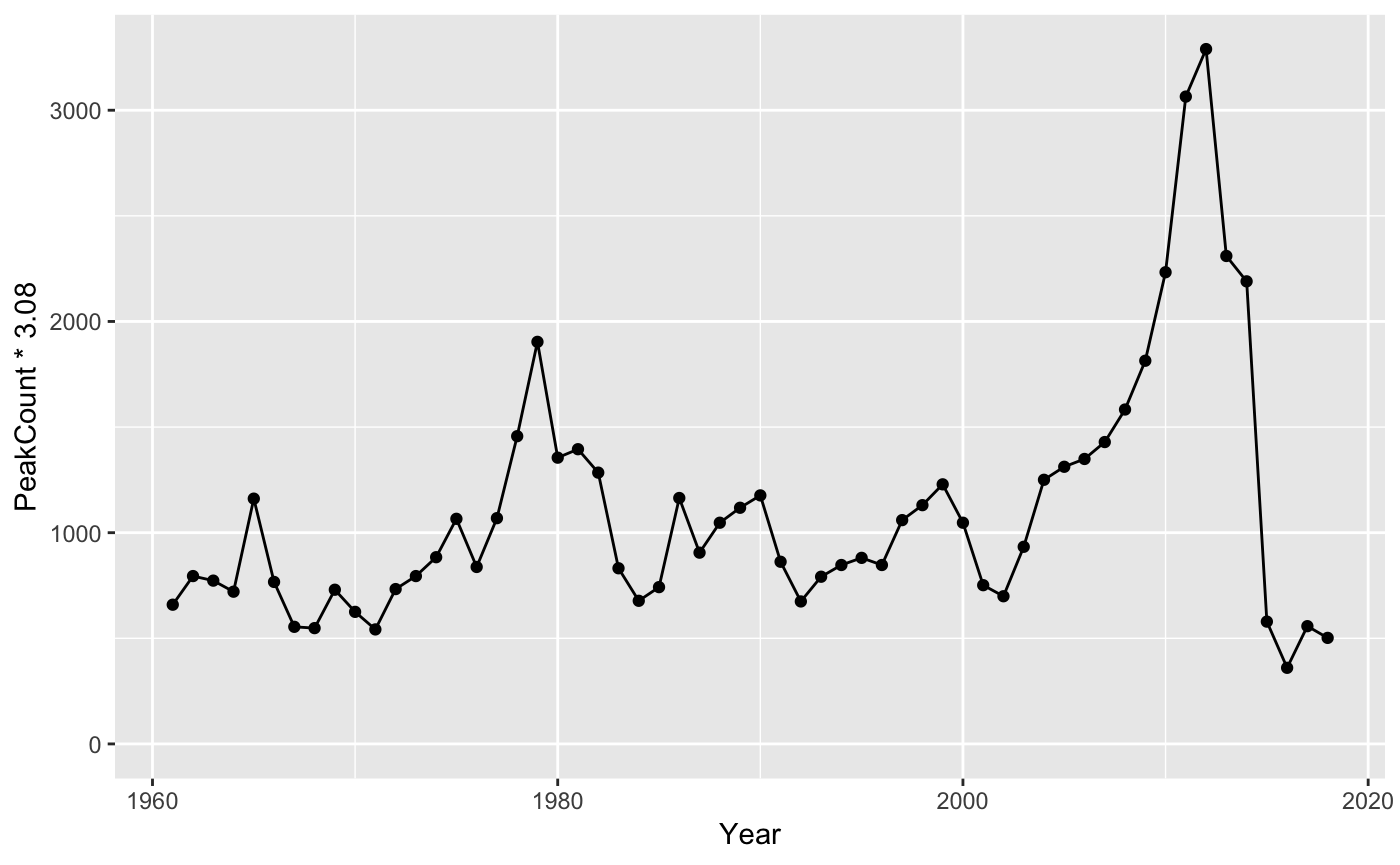
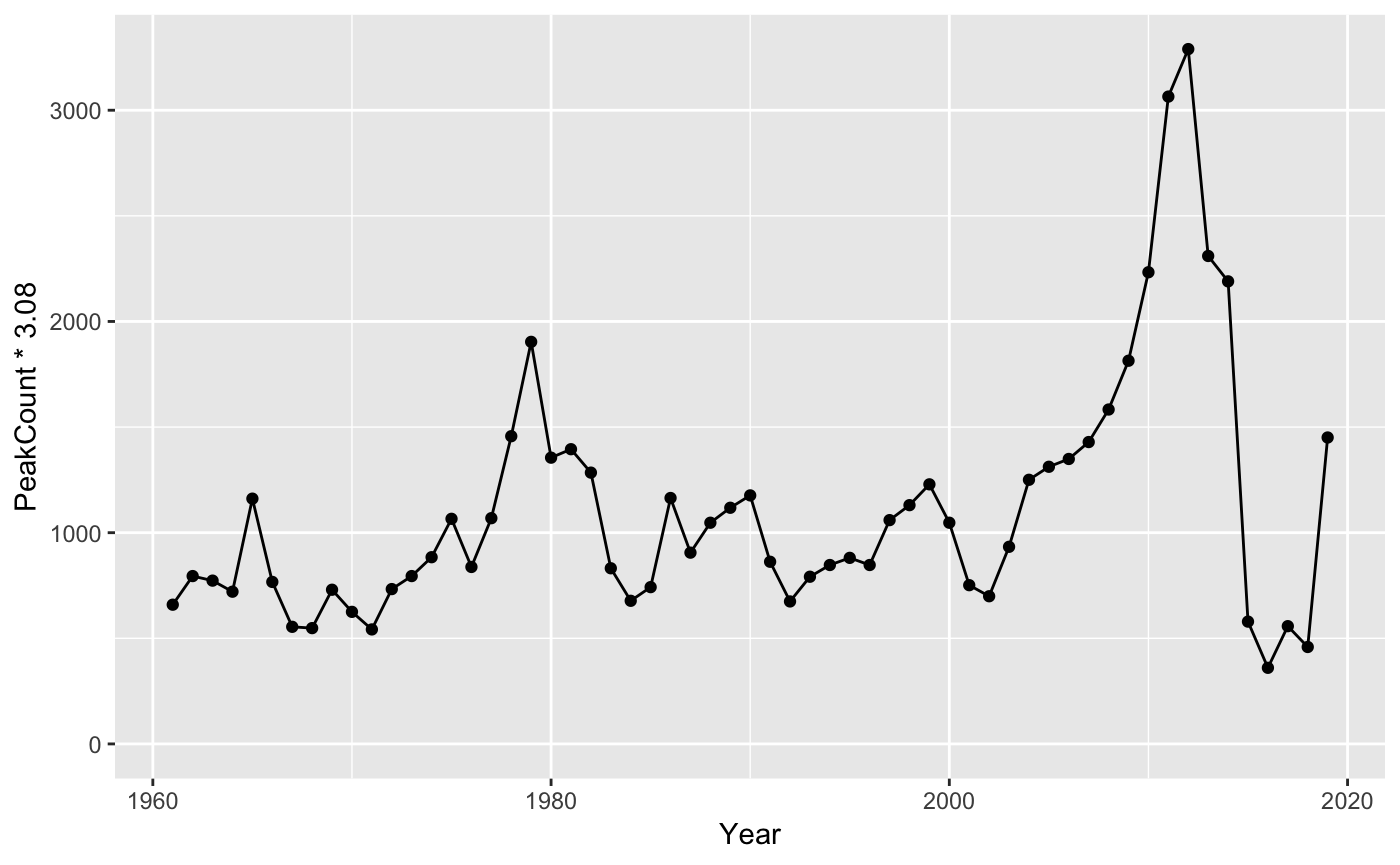
updated 2019

diff --git a/docs/index.html b/docs/index.html
@@ -30,7 +30,7 @@
       </button>
       <span class="navbar-brand">
         <a class="navbar-link" href="index.html">kootlake</a>
-        <span class="version label label-default" data-toggle="tooltip" data-placement="bottom" title="Released version">0.2.8</span>
+        <span class="version label label-default" data-toggle="tooltip" data-placement="bottom" title="Released version">0.2.8.9000</span>
       </span>
     </div>
 
@@ -114,11 +114,16 @@
 <h2 class="hasAnchor">
 <a href="#demonstration" class="anchor"></a>Demonstration</h2>
 <div class="sourceCode" id="cb2"><pre class="sourceCode r"><code class="sourceCode r"><a class="sourceLine" id="cb2-1" title="1"><span class="kw"><a href="https://www.rdocumentation.org/packages/base/topics/library">library</a></span>(ggplot2)</a>
-<a class="sourceLine" id="cb2-2" title="2"></a>
-<a class="sourceLine" id="cb2-3" title="3"><span class="kw"><a href="https://www.rdocumentation.org/packages/ggplot2/topics/ggplot">ggplot</a></span>(<span class="dt">data =</span> kootlake<span class="op">::</span>gerrard, <span class="kw"><a href="https://www.rdocumentation.org/packages/ggplot2/topics/aes">aes</a></span>(<span class="dt">x =</span> Year, <span class="dt">y =</span> PeakCount <span class="op">*</span><span class="st"> </span><span class="fl">3.08</span>)) <span class="op">+</span><span class="st"> </span></a>
-<a class="sourceLine" id="cb2-4" title="4"><span class="st">  </span><span class="kw"><a href="https://www.rdocumentation.org/packages/ggplot2/topics/geom_path">geom_line</a></span>() <span class="op">+</span><span class="st"> </span></a>
-<a class="sourceLine" id="cb2-5" title="5"><span class="st">  </span><span class="kw"><a href="https://www.rdocumentation.org/packages/ggplot2/topics/geom_point">geom_point</a></span>() <span class="op">+</span><span class="st"> </span></a>
-<a class="sourceLine" id="cb2-6" title="6"><span class="st">  </span><span class="kw"><a href="https://www.rdocumentation.org/packages/ggplot2/topics/expand_limits">expand_limits</a></span>(<span class="dt">y =</span> <span class="dv">0</span>)</a></code></pre></div>
+<a class="sourceLine" id="cb2-2" title="2"><span class="co">#&gt; Registered S3 methods overwritten by 'ggplot2':</span></a>
+<a class="sourceLine" id="cb2-3" title="3"><span class="co">#&gt;   method         from </span></a>
+<a class="sourceLine" id="cb2-4" title="4"><span class="co">#&gt;   [.quosures     rlang</span></a>
+<a class="sourceLine" id="cb2-5" title="5"><span class="co">#&gt;   c.quosures     rlang</span></a>
+<a class="sourceLine" id="cb2-6" title="6"><span class="co">#&gt;   print.quosures rlang</span></a>
+<a class="sourceLine" id="cb2-7" title="7"></a>
+<a class="sourceLine" id="cb2-8" title="8"><span class="kw"><a href="https://www.rdocumentation.org/packages/ggplot2/topics/ggplot">ggplot</a></span>(<span class="dt">data =</span> kootlake<span class="op">::</span>gerrard, <span class="kw"><a href="https://www.rdocumentation.org/packages/ggplot2/topics/aes">aes</a></span>(<span class="dt">x =</span> Year, <span class="dt">y =</span> PeakCount <span class="op">*</span><span class="st"> </span><span class="fl">3.08</span>)) <span class="op">+</span><span class="st"> </span></a>
+<a class="sourceLine" id="cb2-9" title="9"><span class="st">  </span><span class="kw"><a href="https://www.rdocumentation.org/packages/ggplot2/topics/geom_path">geom_line</a></span>() <span class="op">+</span><span class="st"> </span></a>
+<a class="sourceLine" id="cb2-10" title="10"><span class="st">  </span><span class="kw"><a href="https://www.rdocumentation.org/packages/ggplot2/topics/geom_point">geom_point</a></span>() <span class="op">+</span><span class="st"> </span></a>
+<a class="sourceLine" id="cb2-11" title="11"><span class="st">  </span><span class="kw"><a href="https://www.rdocumentation.org/packages/ggplot2/topics/expand_limits">expand_limits</a></span>(<span class="dt">y =</span> <span class="dv">0</span>)</a></code></pre></div>
 <p><img src="tools/README-unnamed-chunk-3-1.png" width="700"></p>
 </div>
 <div id="installation" class="section level2">
@@ -137,7 +142,7 @@ install.packages("kootlake")</a></code></pre>
 <a href="#contribution" class="anchor"></a>Contribution</h2>
 <p>Please report any <a href="https://github.com/poissonconsulting/kootlake/issues">issues</a>.</p>
 <p><a href="https://github.com/poissonconsulting/kootlake/pulls">Pull requests</a> are always welcome.</p>
-<p>Please note that this project is released with a <a href="CONDUCT.html">Contributor Code of Conduct</a>. By participating in this project you agree to abide by its terms.</p>
+<p>Please note that this project is released with a <a href="CONDUCT.html">Contributor Code of Conduct</a>. By participating in this project you agree to abide by its terms</p>
 </div>
 </div>
   </div>

diff --git a/docs/reference/kootlake.html b/docs/reference/kootlake.html
@@ -63,7 +63,7 @@
       </button>
       <span class="navbar-brand">
         <a class="navbar-link" href="../index.html">kootlake</a>
-        <span class="version label label-default" data-toggle="tooltip" data-placement="bottom" title="Released version">0.2.8</span>
+        <span class="version label label-default" data-toggle="tooltip" data-placement="bottom" title="Released version">0.2.8.9000</span>
       </span>
     </div>
 
@@ -139,8 +139,11 @@ using the resistivity counter counts.</p>
     
 
     <h2 class="hasAnchor" id="examples"><a class="anchor" href="#examples"></a>Examples</h2>
-    <pre class="examples"><div class='input'><span class='fu'><a href='https://www.rdocumentation.org/packages/base/topics/library'>library</a></span>(<span class='no'>ggplot2</span>)
-
+    <pre class="examples"><div class='input'><span class='fu'><a href='https://www.rdocumentation.org/packages/base/topics/library'>library</a></span>(<span class='no'>ggplot2</span>)</div><div class='output co'>#&gt; <span class='message'>Registered S3 methods overwritten by 'ggplot2':</span>
+#&gt; <span class='message'>  method         from </span>
+#&gt; <span class='message'>  [.quosures     rlang</span>
+#&gt; <span class='message'>  c.quosures     rlang</span>
+#&gt; <span class='message'>  print.quosures rlang</span></div><div class='input'>
 <span class='fu'><a href='https://www.rdocumentation.org/packages/utils/topics/data'>data</a></span>(<span class='no'>gerrard</span>)
 <span class='no'>gerrard</span>$<span class='no'>Escapement</span> <span class='kw'>&lt;-</span> <span class='no'>gerrard</span>$<span class='no'>PeakCount</span> * <span class='fl'>3.08</span>
 

diff --git a/docs/articles/allometry.html b/docs/articles/allometry.html
@@ -30,7 +30,7 @@
       </button>
       <span class="navbar-brand">
         <a class="navbar-link" href="../index.html">kootlake</a>
-        <span class="version label label-default" data-toggle="tooltip" data-placement="bottom" title="Released version">0.2.8</span>
+        <span class="version label label-default" data-toggle="tooltip" data-placement="bottom" title="Released version">0.2.8.9000</span>
       </span>
     </div>
 

diff --git a/docs/articles/index.html b/docs/articles/index.html
@@ -60,7 +60,7 @@
       </button>
       <span class="navbar-brand">
         <a class="navbar-link" href="../index.html">kootlake</a>
-        <span class="version label label-default" data-toggle="tooltip" data-placement="bottom" title="Released version">0.2.8</span>
+        <span class="version label label-default" data-toggle="tooltip" data-placement="bottom" title="Released version">0.2.8.9000</span>
       </span>
     </div>
 

diff --git a/docs/news/index.html b/docs/news/index.html
@@ -60,7 +60,7 @@
       </button>
       <span class="navbar-brand">
         <a class="navbar-link" href="../index.html">kootlake</a>
-        <span class="version label label-default" data-toggle="tooltip" data-placement="bottom" title="Released version">0.2.8</span>
+        <span class="version label label-default" data-toggle="tooltip" data-placement="bottom" title="Released version">0.2.8.9000</span>
       </span>
     </div>
 

diff --git a/docs/reference/bulltrout.html b/docs/reference/bulltrout.html
@@ -63,7 +63,7 @@
       </button>
       <span class="navbar-brand">
         <a class="navbar-link" href="../index.html">kootlake</a>
-        <span class="version label label-default" data-toggle="tooltip" data-placement="bottom" title="Released version">0.2.8</span>
+        <span class="version label label-default" data-toggle="tooltip" data-placement="bottom" title="Released version">0.2.8.9000</span>
       </span>
     </div>
 

diff --git a/docs/reference/fish.html b/docs/reference/fish.html
@@ -63,7 +63,7 @@
       </button>
       <span class="navbar-brand">
         <a class="navbar-link" href="../index.html">kootlake</a>
-        <span class="version label label-default" data-toggle="tooltip" data-placement="bottom" title="Released version">0.2.8</span>
+        <span class="version label label-default" data-toggle="tooltip" data-placement="bottom" title="Released version">0.2.8.9000</span>
       </span>
     </div>
 

diff --git a/docs/reference/fishery.html b/docs/reference/fishery.html
@@ -63,7 +63,7 @@
       </button>
       <span class="navbar-brand">
         <a class="navbar-link" href="../index.html">kootlake</a>
-        <span class="version label label-default" data-toggle="tooltip" data-placement="bottom" title="Released version">0.2.8</span>
+        <span class="version label label-default" data-toggle="tooltip" data-placement="bottom" title="Released version">0.2.8.9000</span>
       </span>
     </div>
 

diff --git a/docs/reference/fishery_catch.html b/docs/reference/fishery_catch.html
@@ -63,7 +63,7 @@
       </button>
       <span class="navbar-brand">
         <a class="navbar-link" href="../index.html">kootlake</a>
-        <span class="version label label-default" data-toggle="tooltip" data-placement="bottom" title="Released version">0.2.8</span>
+        <span class="version label label-default" data-toggle="tooltip" data-placement="bottom" title="Released version">0.2.8.9000</span>
       </span>
     </div>
 

diff --git a/docs/reference/gerrard.html b/docs/reference/gerrard.html
@@ -63,7 +63,7 @@
       </button>
       <span class="navbar-brand">
         <a class="navbar-link" href="../index.html">kootlake</a>
-        <span class="version label label-default" data-toggle="tooltip" data-placement="bottom" title="Released version">0.2.8</span>
+        <span class="version label label-default" data-toggle="tooltip" data-placement="bottom" title="Released version">0.2.8.9000</span>
       </span>
     </div>
 

diff --git a/docs/reference/index.html b/docs/reference/index.html
@@ -60,7 +60,7 @@
       </button>
       <span class="navbar-brand">
         <a class="navbar-link" href="../index.html">kootlake</a>
-        <span class="version label label-default" data-toggle="tooltip" data-placement="bottom" title="Released version">0.2.8</span>
+        <span class="version label label-default" data-toggle="tooltip" data-placement="bottom" title="Released version">0.2.8.9000</span>
       </span>
     </div>
 

diff --git a/docs/reference/kl_estimate_na.html b/docs/reference/kl_estimate_na.html
@@ -63,7 +63,7 @@
       </button>
       <span class="navbar-brand">
         <a class="navbar-link" href="../index.html">kootlake</a>
-        <span class="version label label-default" data-toggle="tooltip" data-placement="bottom" title="Released version">0.2.8</span>
+        <span class="version label label-default" data-toggle="tooltip" data-placement="bottom" title="Released version">0.2.8.9000</span>
       </span>
     </div>
 
